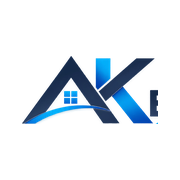
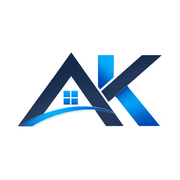
Yönetim: ayrı derleme, PWA kabuğu ve yayın ayarları
Ana ekrana eklenebilen /yonetim sayfası, yalnızca bildirim için service worker,
ayrı CSP, Google girişi için /__/auth vekil yönlendirmesi. Site simgelerindeki
'E' harfi kalıntısı temizlendi.

Claude-Session: https://claude.ai/code/session_01CaDtuJbTCRQ64q5Pmyx4kU

Changed region(s): [[0.0833, 0.2778, 0.9167, 0.7222], [0.7222, 0.3333, 0.75, 0.3611]]

diff --git a/vite.config.ts b/vite.config.ts
@@ -32,15 +32,50 @@ const CSP = [
   "manifest-src 'self'",
 ].join('; ');
 
+/**
+ * Yönetim uygulaması (/yonetim) CSP'si: Analytics yok; Firebase'e ek olarak bildirim (FCM), Cloud Functions
+ * ve başvuru fotoğrafları (blob:) için izin. Google girişi aynı alan adındaki /__/auth/ sayfasını iframe'de açar.
+ */
+const ADMIN_CSP = [
+  "default-src 'self'",
+  "script-src 'self' https://www.google.com https://www.gstatic.com https://apis.google.com",
+  "style-src 'self' 'unsafe-inline'",
+  "img-src 'self' data: blob:",
+  "font-src 'self' data:",
+  [
+    "connect-src 'self'",
+    ...FIREBASE_CONNECT,
+    'https://fcmregistrations.googleapis.com',
+    'https://firebaseinstallations.googleapis.com',
+    'https://europe-west3-akemlak-ilan.cloudfunctions.net',
+    ...EMULATOR_CONNECT,
+    ...(process.env.VITE_FIREBASE_EMULATOR === '1' ? ['http://127.0.0.1:5001'] : []),
+  ].join(' '),
+  "object-src 'none'",
+  "base-uri 'none'",
+  "form-action 'self'",
+  "frame-src 'self' https://www.google.com https://recaptcha.google.com" + (process.env.VITE_FIREBASE_EMULATOR === '1' ? ' http://127.0.0.1:9099' : ''),
+  "worker-src 'self'",
+  "manifest-src 'self'",
+].join('; ');
+
 // Geliştirme sunucusu satır içi betik kullandığı için CSP yalnızca derlemede eklenir.
 const cspPlugin = (): Plugin => ({
   name: 'akemlak-csp',
   apply: 'build',
-  transformIndexHtml: (html) =>
-    html.replace('<meta charset="UTF-8" />', `<meta charset="UTF-8" />\n    <meta http-equiv="Content-Security-Policy" content="${CSP}" />`),
+  transformIndexHtml: (html, ctx) =>
+    html.replace(
+      '<meta charset="UTF-8" />',
+      `<meta charset="UTF-8" />\n    <meta http-equiv="Content-Security-Policy" content="${ctx.path.startsWith('/yonetim/') ? ADMIN_CSP : CSP}" />`,
+    ),
 });
 
 export default defineConfig({
   plugins: [react(), cspPlugin(), seoPrerender()],
-  build: { sourcemap: false, target: 'es2021' },
+  build: {
+    sourcemap: false,
+    target: 'es2021',
+    // Yönetim uygulaması ayrı giriş noktasıdır; kodu ziyaretçi paketine girmez.
+    rollupOptions: { input: { main: 'index.html', yonetim: 'yonetim/index.html' } },
+  },
 });

diff --git a/public/yonetim/sw.js b/public/yonetim/sw.js
@@ -1,0 +1,44 @@
+// Ak Emlak Yönetim — yalnızca bildirim için service worker.
+// Önbellekleme yapmaz (fetch dinleyicisi yok); veriler her zaman sunucudan gelir.
+self.addEventListener('install', () => self.skipWaiting());
+self.addEventListener('activate', (event) => event.waitUntil(self.clients.claim()));
+
+self.addEventListener('push', (event) => {
+  let p = {};
+  try {
+    p = event.data ? event.data.json() : {};
+  } catch (e) {
+    p = {};
+  }
+  const n = p.notification || {};
+  const data = p.data || {};
+  const link = data.link || (p.fcmOptions && p.fcmOptions.link) || '/yonetim/';
+  event.waitUntil(
+    self.registration.showNotification(n.title || 'Ak Emlak Yönetim', {
+      body: n.body || '',
+      icon: '/yonetim/icon-192.png',
+      badge: '/yonetim/icon-192.png',
+      tag: data.basvuruId || undefined,
+      data: { link },
+    }),
+  );
+});
+
+self.addEventListener('notificationclick', (event) => {
+  event.notification.close();
+  const link = (event.notification.data && event.notification.data.link) || '/yonetim/';
+  const url = new URL(link, self.location.origin);
+  // Yalnızca kendi sitemizdeki bağlantılar açılır
+  if (url.origin !== self.location.origin) return;
+  event.waitUntil(
+    self.clients.matchAll({ type: 'window', includeUncontrolled: true }).then((list) => {
+      for (const c of list) {
+        if (c.url.startsWith(self.location.origin + '/yonetim')) {
+          c.navigate(url.href);
+          return c.focus();
+        }
+      }
+      return self.clients.openWindow(url.href);
+    }),
+  );
+});

diff --git a/yonetim/index.html b/yonetim/index.html
@@ -1,0 +1,23 @@
+<!doctype html>
+<html lang="tr">
+  <head>
+    <meta charset="UTF-8" />
+    <meta name="viewport" content="width=device-width, initial-scale=1, viewport-fit=cover" />
+    <meta name="robots" content="noindex, nofollow" />
+    <meta name="referrer" content="strict-origin-when-cross-origin" />
+    <meta name="theme-color" content="#ffffff" />
+    <meta name="apple-mobile-web-app-capable" content="yes" />
+    <meta name="mobile-web-app-capable" content="yes" />
+    <meta name="apple-mobile-web-app-title" content="AK Yönetim" />
+    <meta name="apple-mobile-web-app-status-bar-style" content="default" />
+    <link rel="manifest" href="/yonetim/manifest.webmanifest" />
+    <link rel="icon" type="image/png" sizes="192x192" href="/yonetim/icon-192.png" />
+    <link rel="apple-touch-icon" href="/yonetim/icon-192.png" />
+    <title>Ak Emlak Yönetim</title>
+  </head>
+  <body>
+    <div id="root"></div>
+    <noscript>Yönetim uygulaması için JavaScript gerekir.</noscript>
+    <script type="module" src="/src/yonetim/main.tsx"></script>
+  </body>
+</html>

diff --git a/scripts/seo-plugin.ts b/scripts/seo-plugin.ts
@@ -293,7 +293,7 @@ export function seoPrerender(): Plugin {
           resolve(outDir, 'sitemap.xml'),
           `<?xml version="1.0" encoding="UTF-8"?>\n<urlset xmlns="http://www.sitemaps.org/schemas/sitemap/0.9">\n${urls.join('\n')}\n</urlset>\n`,
         );
-        writeFileSync(resolve(outDir, 'robots.txt'), `User-agent: *\nAllow: /\n\nSitemap: ${origin}/sitemap.xml\n`);
+        writeFileSync(resolve(outDir, 'robots.txt'), `User-agent: *\nAllow: /\nDisallow: /yonetim\n\nSitemap: ${origin}/sitemap.xml\n`);
       } else {
         console.warn('\n[seo] Site adresi bilinmiyor; canonical, og:url ve sitemap.xml üretilmedi. SITE_URL ortam değişkenini ya da src/config.ts → siteUrl alanını ayarlayın.');
       }

diff --git a/functions/test/push.test.ts b/functions/test/push.test.ts
@@ -22,6 +22,8 @@ test('mesaj başlığı, gövdesi ve bağlantısı', async () => {
   assert.equal(mesajlar[0].notification.title, 'Yeni ilan başvurusu B-7K2Q9X');
   assert.equal(mesajlar[0].notification.body, 'Müstakil Ev · Nurdağı');
   assert.equal(mesajlar[0].webpush.fcmOptions.link, 'https://ak-emlak.vercel.app/yonetim/#/basvuru/abc123');
+  // Service worker bildirimi kendisi gösterir; bağlantıyı data alanından okur
+  assert.deepEqual(mesajlar[0].data, { link: 'https://ak-emlak.vercel.app/yonetim/#/basvuru/abc123', basvuruId: 'abc123' });
 });
 
 test('geçersiz token silinir', async () => {

diff --git a/functions/src/push.ts b/functions/src/push.ts
@@ -29,6 +29,7 @@ export async function bildirimGonder(o: {
   const mesajlar = tokenlar.map((t) => ({
     token: t.token,
     notification: { title, body },
+    data: { link, basvuruId: basvuru.id },
     webpush: { fcmOptions: { link }, notification: { icon: '/yonetim/icon-192.png', tag: basvuru.id } },
   }));
   const { responses } = await o.gonder(mesajlar);

diff --git a/src/yonetim/main.tsx b/src/yonetim/main.tsx
@@ -1,0 +1,8 @@
+import { StrictMode } from 'react';
+import { createRoot } from 'react-dom/client';
+
+createRoot(document.getElementById('root')!).render(
+  <StrictMode>
+    <p style={{ padding: 24, fontFamily: 'system-ui' }}>Yükleniyor…</p>
+  </StrictMode>,
+);
